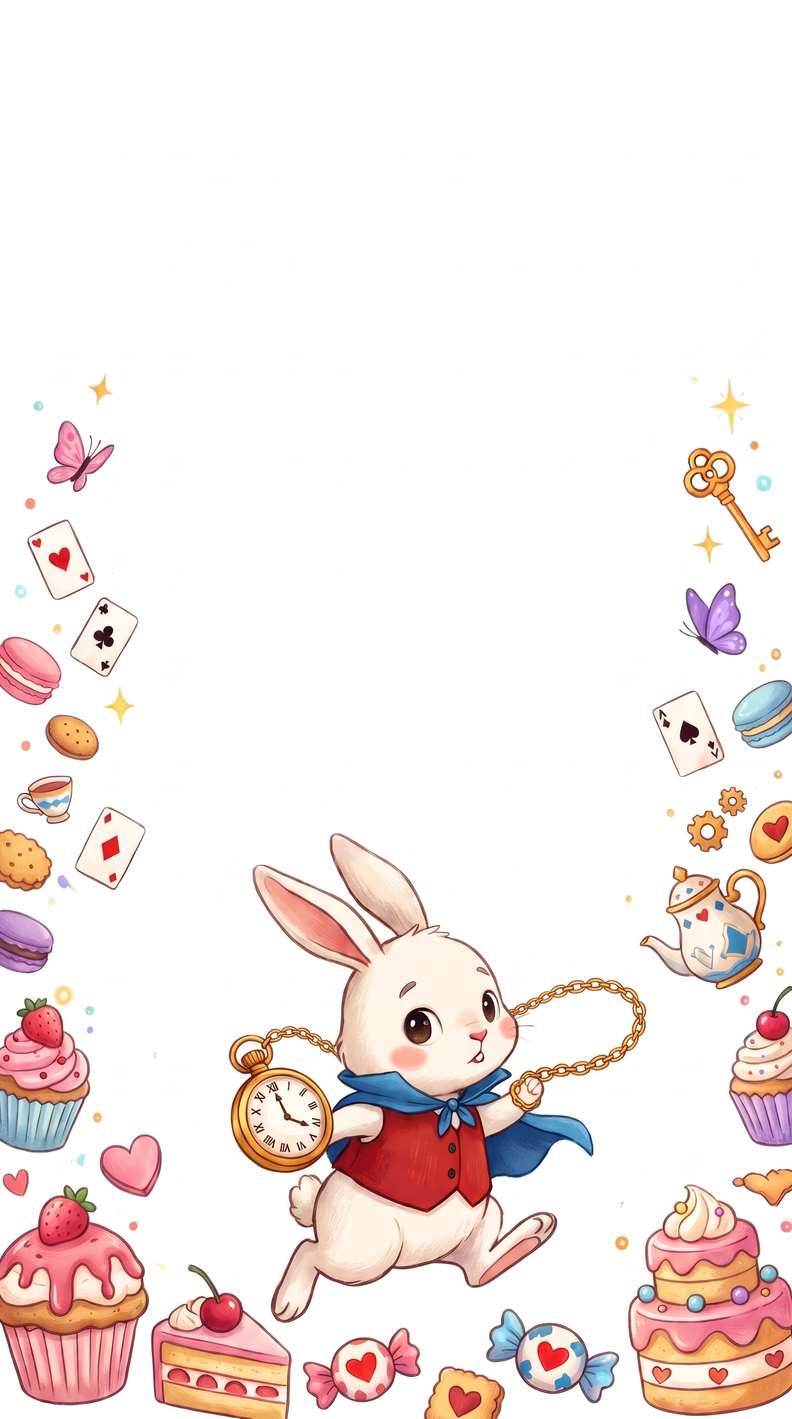
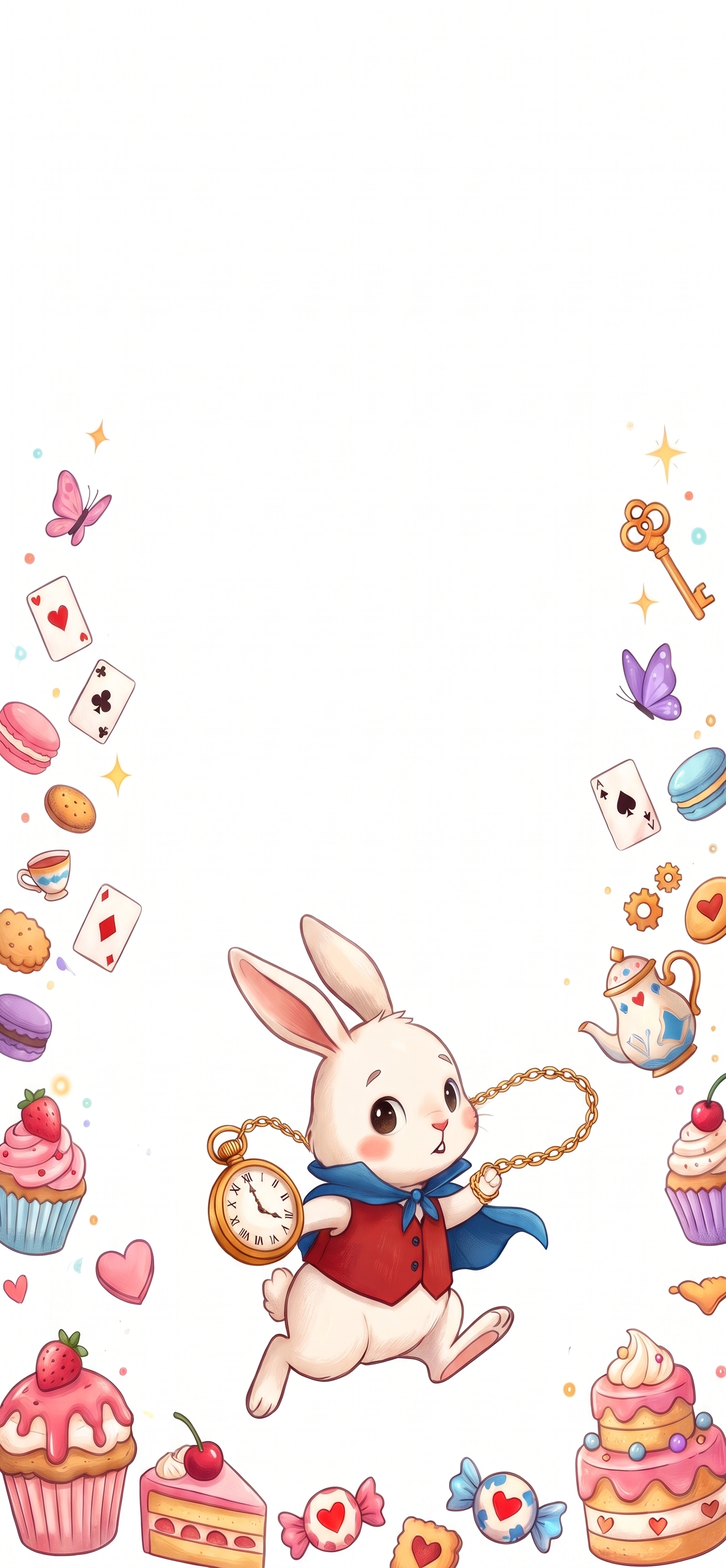
bg

Changed region(s): [[0.0, 0.25, 1.0, 1.0], [0.125, 0.25, 0.1562, 0.2812]]

diff --git a/src/component/page/StartPage.js b/src/component/page/StartPage.js
@@ -9,16 +9,16 @@ export default function StartPage({ nextStep }) {
       <div className="relative isolate flex h-full w-full flex-col justify-between overflow-hidden px-6 py-6">
 
         {/* 背景圖片 */}
-        <div className="absolute inset-0 z-0">
-  <Image 
-    src="/bg-2.jpg" 
-    alt="background" 
-    fill 
-    sizes="390px"
-    className="object-cover object-center" 
-    priority 
-  />
-</div>
+        <div className="pointer-events-none absolute inset-0 z-0">
+          <Image
+            src="/0.start/bg-2.jpg"
+            alt="夢幻童話森林與白兔"
+            fill
+            priority
+            sizes="(max-width: 640px) 100vw, 390px"
+            className="object-cover object-bottom"
+          />
+        </div>
 
         {/* 柔和暖色濾鏡 */}
         <div
